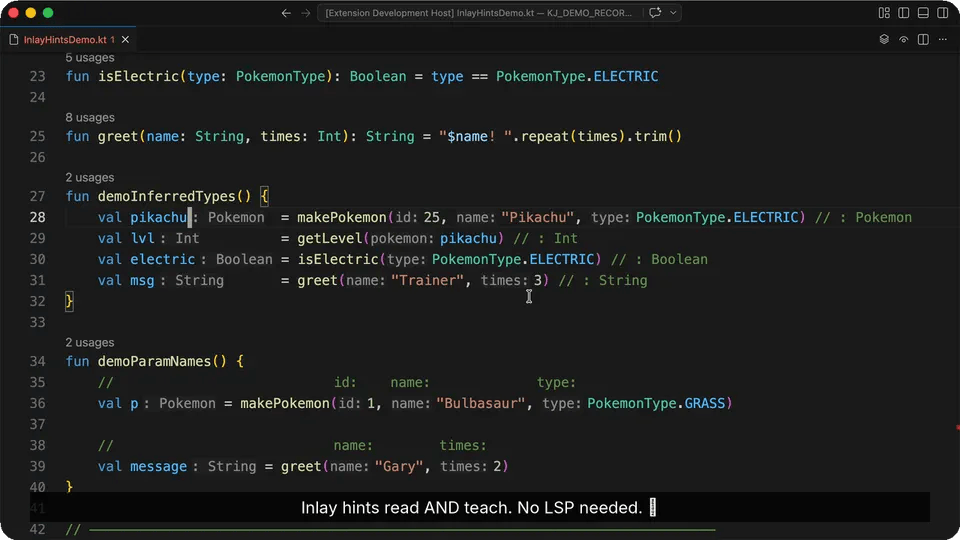
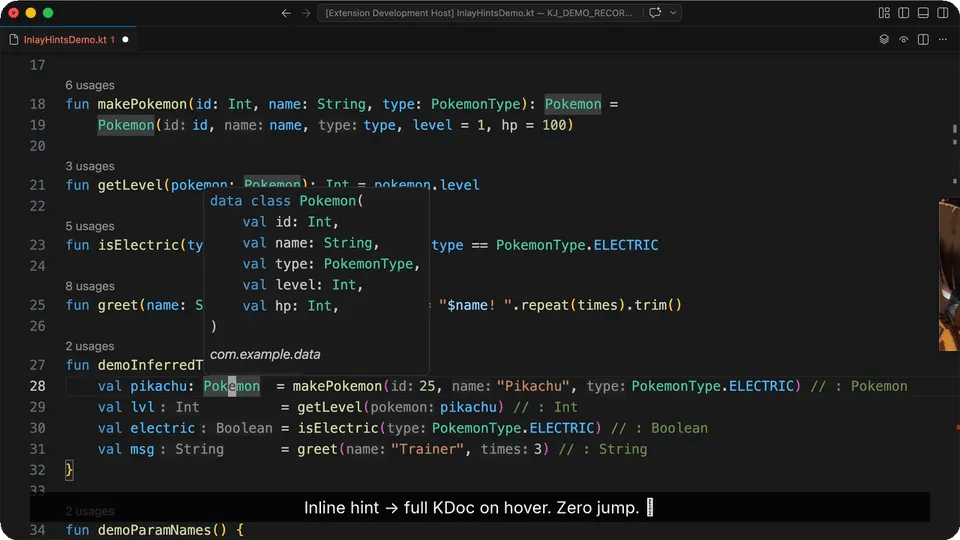
docs(demos): trim inlay-hints to one WOW beat
inlay-hints was 22 s / 9.1 MB with four captions and two scroll
sections — rhythm flasque, 8 s of dead air between the reveal and
the payoff. The param-names aside was a second chapter that muddied
the single message: "inline inference you can actually hover".

Cuts to one beat: inferred type appears → hover the virtual inlay →
full class KDoc materialises at the same spot. Two captions:
- "What type is `pikachu`?"
- "Inline hint → full KDoc on hover. Zero jump. 🧠"

Result: 11 s / 3.7 MB (-59%), ratio one narrative event per ~4 s
instead of per ~5.4 s. The materialise-then-hover trick stays — it IS
the WOW — but the hold shrinks from 4.5 s to 2.6 s.

diff --git a/scripts/demo/demos/inlay-hints.demo.ts b/scripts/demo/demos/inlay-hints.demo.ts
@@ -1,104 +1,70 @@
 import { Stage } from '../lib/stage';
 
 /**
- * Demo: Inlay Hints — inferred types and parameter names rendered
- * inline, AND clickable to navigate to the source declaration.
+ * Demo: Inlay Hints — inferred type rendered inline, and the class it
+ * points to is one hover away. ~11 s.
  *
- * Story: a dev reads a function call where parameter names appear as
- * faint inline hints (`id:`, `name:`, `type:`). The hints aren't just
- * decoration — Cmd+Click on a hint jumps to the parameter's
- * declaration in the function signature. Useful when you want to see
- * if the source uses English vs French naming, or to read the param's
- * KDoc directly.
+ * One beat, one payoff. The viewer lands on a `val` with no explicit
+ * type, sees the inferred `: Pokemon` inlay appear, then watches the
+ * full class KDoc materialise at the same position without jumping to
+ * another file.
  *
- * Multi-line emphasis: scroll through several call-site sections so
- * the viewer sees the hints adapt to different signatures, default
- * args, lambdas — the pattern is universal.
+ * WOW: the virtual inlay is READABLE in place — hint says Pokemon,
+ * hover says why.
  *
- * WOW: zero LSP, zero JVM, hints rendered AND navigable.
- *
- * Narrative: Setup (open at inferred-type demo) → Reveal (caption
- * naming the type hints) → Multi-line scroll (param names too, across
- * several functions) → Action (Cmd+Click on a hint → jump to source)
- * → Relief. ~13 s.
+ * Trimmed from a 22 s three-section version (inferred + param-names
+ * scroll + hover). The middle scroll was filler; the hover IS the WOW.
  */
 export default async function record(stage: Stage): Promise<void> {
   await stage.waitForIndexReady();
 
-  // Setup: open at `demoInferredTypes` (line 27, 1-idx = line 26, 0-idx).
+  // Line 27 (0-idx) = `    val pikachu  = makePokemon(...) // : Pokemon`
+  // The inlay hint provider renders `: Pokemon` as virtual text after
+  // `pikachu` at col 15. Col 15 positions the caret right where the
+  // hint appears — so the viewer's eye is already in the right spot
+  // when the callout fires.
   await stage.openFile(
     'src/main/kotlin/com/example/demo/InlayHintsDemo.kt',
-    { line: 26, column: 0 },
+    { line: 27, column: 15 },
   );
-  await stage.pause(2500);
-  // Past EOL (line is 80 chars incl. the `// : Pokemon` comment).
-  // Col 62 used to land inside `ELECTRIC` (spans cols 58-65), splitting
-  // the enum name visually: `ELECT ◀ inferred RIC`.
-  void stage.calloutAt({ line: 27, column: 80 }, 'inferred', 2400);
-  await stage.caption('What type is each `val` here?', {
-    duration: 2800,
+  await stage.pause(1200);
+  await stage.caption('What type is `pikachu`?', {
+    duration: 2200,
   });
 
-  // Multi-line: scroll down through `demoParamNames` and beyond, so the
-  // viewer sees the hint mechanism adapt across multiple signatures.
-  // 12 lines / 2200 ms = unhurried.
-  await stage.scrollThrough({
-    fromLine:   26,
-    toLine:     40,
-    column:     4,
-    durationMs: 2200,
-  });
-  await stage.dwellOn({ line: 40 }, 1200);
+  // Point at the virtual inlay. Past EOL (line is 80 chars incl. the
+  // `// : Pokemon` comment); col 80 lands safely at end-of-line.
+  void stage.calloutAt({ line: 27, column: 80 }, 'inferred', 1800);
+  await stage.dwellOn({ line: 27, column: 15 }, 1300);
 
-  // Bonus beat: the hint is `: Pokemon` on line 27 0-idx (= line 28
-  // 1-idx), rendered virtually after `pikachu`. VS Code only renders
-  // the inlay hint's own hover on REAL mouse move — keyboard
-  // `showHover` at the anchor shows nothing. Workaround that still
-  // nails the intent visually: momentarily MATERIALISE the hint by
-  // inserting `: Pokemon` as real text at the same column (15), hover
-  // on the real word (HoverProvider resolves the Pokemon data class
-  // → KDoc + field list), then undo. The popup opens at the exact
-  // position of the original inlay — indistinguishable to the viewer.
-  await stage.scrollThrough({
-    fromLine:   40,
-    toLine:     27,
-    column:     15,
-    durationMs: 1800,
-  });
-  await stage.dwellOn({ line: 27, column: 15 }, 600);
-  await stage.caption('Hover the `: Pokemon` inlay. Definition right there. 👀', {
-    duration: 2400,
-  });
-  // Materialise the inlay: insert `: Pokemon` right after `pikachu`.
-  // Atomic edit — the inlay hint provider detects an explicit type
-  // and skips the line on its next re-render, so the viewer sees the
-  // virtual `: Pokemon` replaced by real, hoverable `: Pokemon` text
-  // at the same column. No duplicate label, no flicker.
+  // Materialise the inlay as real text so the hover provider fires on
+  // it (inlay-hint hovers only trigger on mouse move, not on keyboard
+  // `showHover`). The atomic edit replaces `pikachu ` → `pikachu: Pokemon `
+  // at the exact column the virtual hint was rendering — visually
+  // indistinguishable from hovering the inlay itself.
   await stage.replaceText(27, 'pikachu ', 'pikachu: Pokemon ');
-  // Park the caret INSIDE the freshly-inserted `Pokemon` (starts at
-  // c17 after the 2-char `: ` prefix; col 20 is the middle of the word
-  // so `getWordRangeAtPosition` resolves to `Pokemon`).
+  // Park the caret INSIDE the freshly-inserted `Pokemon` so
+  // `getWordRangeAtPosition` resolves to the class name. Col 20 = `k`
+  // of `Pokemon`.
   await stage.openFile(
     'src/main/kotlin/com/example/demo/InlayHintsDemo.kt',
     { line: 27, column: 20, reveal: 'if-offscreen' },
   );
-  await stage.dwellOn({ line: 27, column: 20 }, 400);
+  await stage.dwellOn({ line: 27, column: 20 }, 300);
   await stage.runCommand('editor.action.showHover');
-  // Hold ~4.5 s so the viewer reads the data class definition.
-  await stage.pause(4500);
-  await stage.caption('Pokemon revealed at the call site. No jump needed.', {
+  await stage.caption('Inline hint → full KDoc on hover. Zero jump. 🧠', {
     duration: 2800,
   });
-  // Dismiss the hover, then undo to restore the file to its original
-  // shape. The inlay hint returns within the provider's debounced
-  // window (~100 ms), leaving the workspace clean for the next
-  // recording.
-  await stage.runCommand('editor.action.hideHover').then(() => {}, () => {});
-  await stage.pause(300);
-  await stage.runCommand('undo');
-  await stage.pause(700);
+  // Hold long enough for the reader to parse the data-class signature
+  // and field list. Caption stays up ~2.8 s, hover parked ~2.6 s — both
+  // fade together naturally.
+  await stage.pause(2600);
 
-  await stage.caption('Inlay hints read AND teach. No LSP needed. 🧠', {
-    duration: 2600,
-  });
+  // Restore the file: dismiss hover, undo the materialisation. The
+  // inlay provider re-renders the virtual `: Pokemon` within its
+  // debounced window (~100 ms), leaving the workspace clean.
+  await stage.runCommand('editor.action.hideHover').then(() => {}, () => {});
+  await stage.pause(200);
+  await stage.runCommand('undo');
+  await stage.pause(500);
 }
